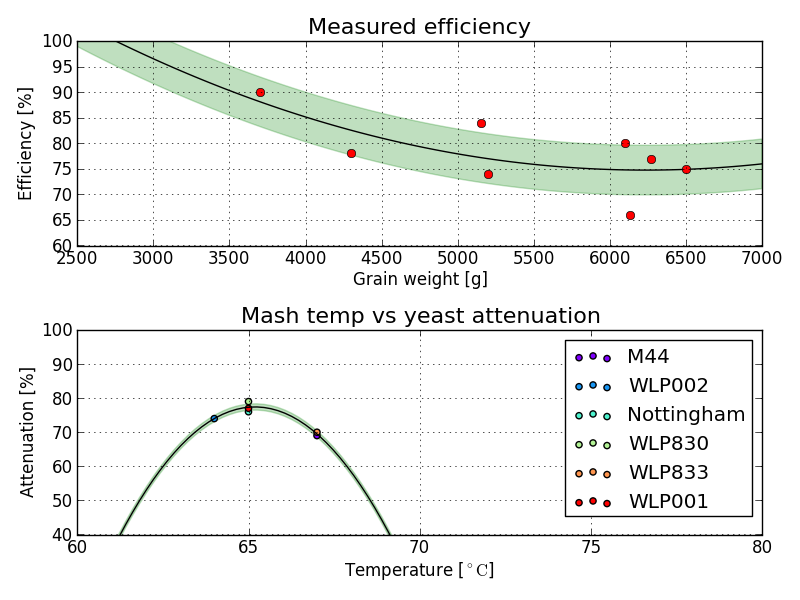
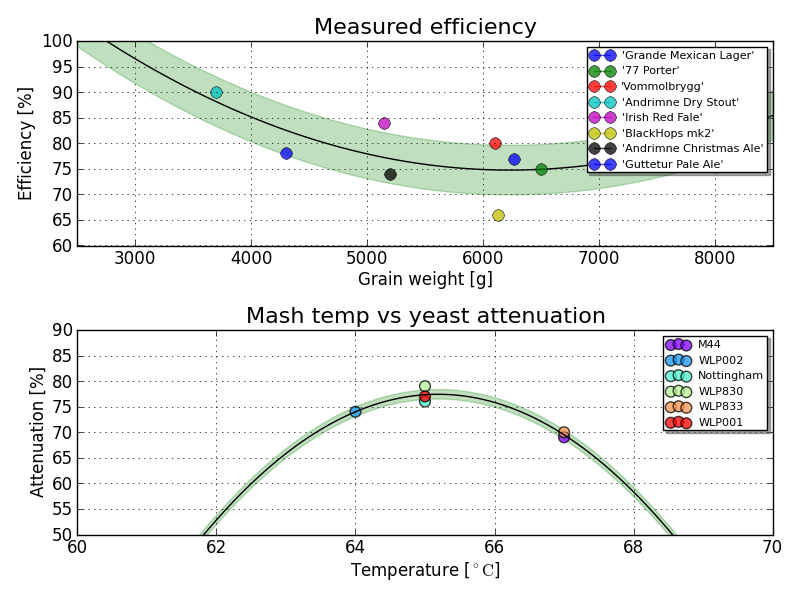
Tweaked limits, added legend for efficiency

diff --git a/plot_all.py b/plot_all.py
@@ -21,7 +21,7 @@ def weight_vs_efficiency_figure(subplot):
     
     #fit 2nd order polynomial
     wparams = np.polyfit(wx, wy, 2)
-    wxp = np.linspace(7000, 2500, 100)
+    wxp = np.linspace(8500, 2500, 100)
     wyp = np.polyval(wparams, wxp)
     
     #error band
@@ -30,12 +30,18 @@ def weight_vs_efficiency_figure(subplot):
     subplot.set_title("Measured efficiency", fontsize=16)
     subplot.plot(wxp, wyp, 'k')
     subplot.fill_between(wxp, wyp - wsig, wyp + wsig, color='green', alpha=0.25)
-    subplot.plot(weightdata["Grainweight_g"], weightdata["Efficiency_"], "ro")
-    subplot.set_xlim(2500,7000)
+    i=0
+    for x,y in zip(wx,wy):
+        pl.plot(x,y,marker="o", markersize=8,label=weightdata["Remarks"][i], alpha=0.75)
+        i = i + 1 
+     
+
+    subplot.set_xlim(2500,8500)
     subplot.set_ylim(60,100)
     subplot.set_xlabel("Grain weight [g]")
     subplot.set_ylabel("Efficiency [%]")
     subplot.grid()
+    subplot.legend(prop={'size':8,}, shadow=True)
 
 def mashtemp_vs_attenuation_figure(subplot):
     ##Experimental and ugly
@@ -48,7 +54,7 @@ def mashtemp_vs_attenuation_figure(subplot):
     
     #fit 2nd order polynomial
     aparams = np.polyfit(ax, ay, 2)
-    axp = np.linspace(80, 60, 100)
+    axp = np.linspace(70, 60, 100)
     ayp = np.polyval(aparams, axp)
     
     #error band
@@ -63,16 +69,16 @@ def mashtemp_vs_attenuation_figure(subplot):
     
     for yeast,color in zip(yeasttypes,colors):
             brews = data[data["Yeast type"].str.contains(yeast)]
-            pl.scatter(brews["Mash temperature [C]"], brews["Attenuation [%]"], color=color, edgecolors="black", label=yeast)
+            pl.scatter(brews["Mash temperature [C]"], brews["Attenuation [%]"], 60, color=color, edgecolors="black", label=yeast, alpha=0.75)
     #End
     
     
-    subplot.set_xlim(60,80)
-    subplot.set_ylim(40,100)
+    subplot.set_xlim(60,70)
+    subplot.set_ylim(50,90)
     subplot.set_xlabel(r"Temperature [$^{\circ}\mathrm{C}$]")
     subplot.set_ylabel("Attenuation [%]")
     subplot.grid()
-    subplot.legend()
+    subplot.legend(prop={'size':8}, shadow=True)
 
 p = pl.figure()
 p1 = p.add_subplot(211)
